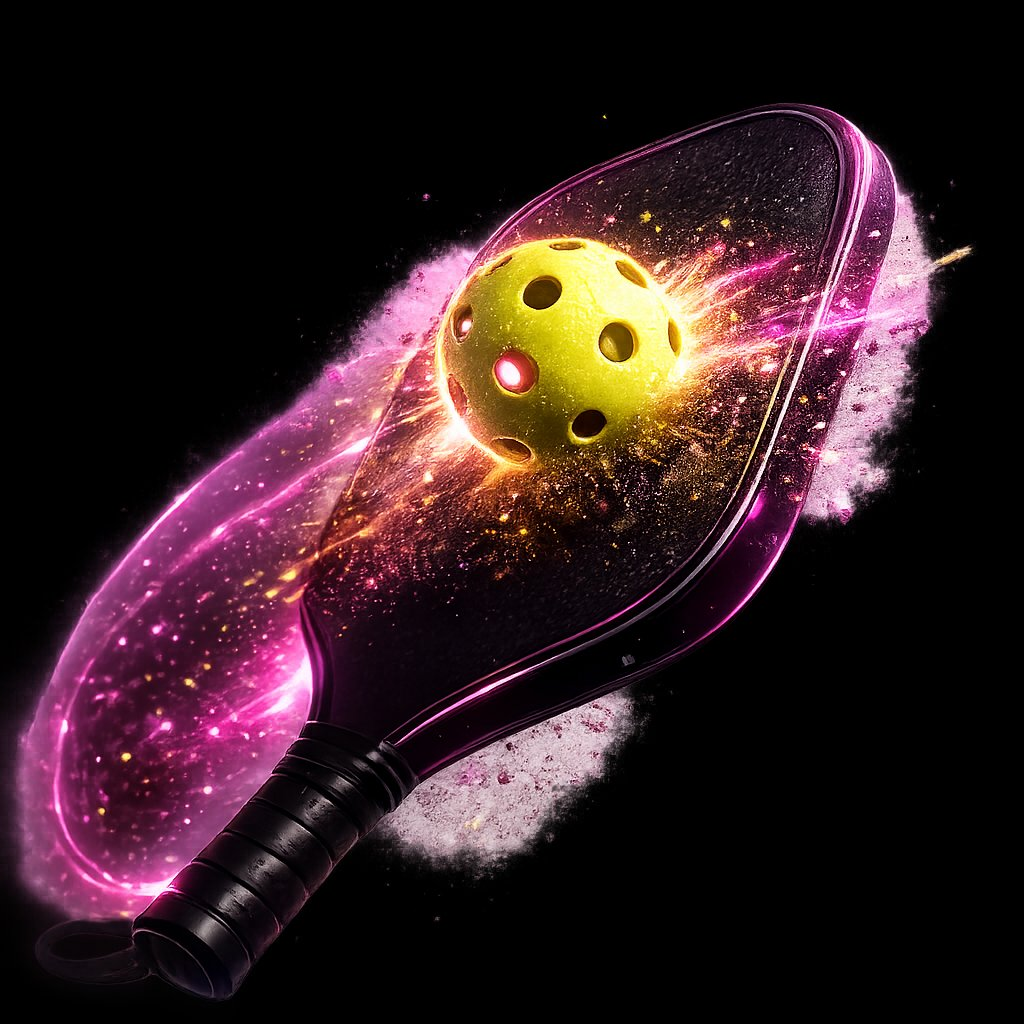
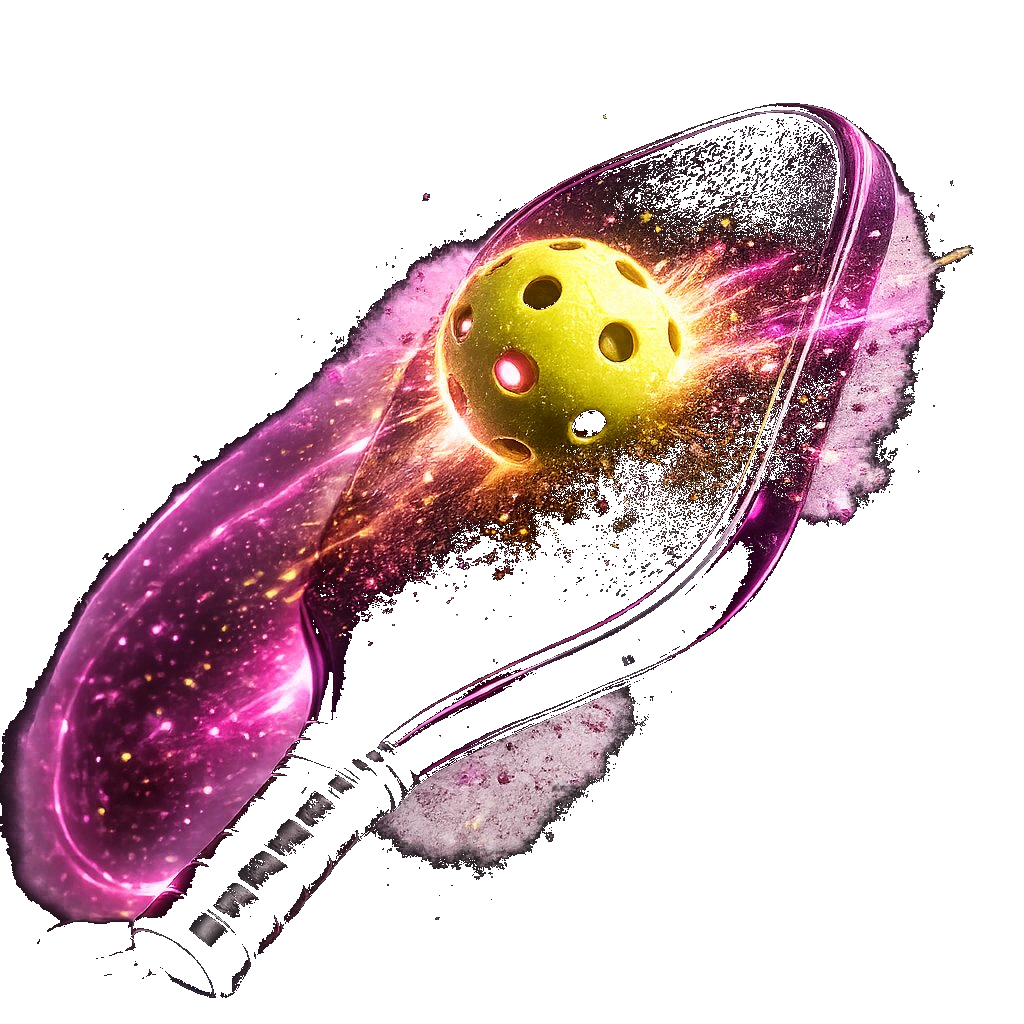
Screen 01: transparent backgrounds on sport images, enlarge to 80px, fix card overflow

diff --git a/index.html b/index.html
@@ -188,7 +188,7 @@ body{background:var(--bg);color:var(--white);font-family:'Plus Jakarta Sans',san
 /* sport branch grid */
 .branch-section{width:100%;margin-top:20px;padding:0 8px;}
 .branch-grid{display:grid;grid-template-columns:1fr 1fr;gap:10px;}
-.branch-card{border-radius:14px;padding:16px 10px 14px;display:flex;flex-direction:column;align-items:center;justify-content:center;gap:8px;position:relative;overflow:hidden;transition:all 0.25s ease;cursor:pointer;text-align:center;aspect-ratio:1/0.95;}
+.branch-card{border-radius:14px;padding:18px 10px 16px;display:flex;flex-direction:column;align-items:center;justify-content:center;gap:6px;position:relative;overflow:hidden;transition:all 0.25s ease;cursor:pointer;text-align:center;}
 .branch-card.active{background:rgba(184,242,106,0.06);border:1.5px solid rgba(184,242,106,0.4);box-shadow:0 0 24px rgba(184,242,106,0.12),0 0 48px rgba(184,242,106,0.04),inset 0 0 20px rgba(184,242,106,0.03);}
 .branch-card.coming{background:rgba(255,255,255,0.02);border:1.5px solid rgba(184,242,106,0.2);box-shadow:0 0 16px rgba(184,242,106,0.06),0 0 32px rgba(184,242,106,0.02);}
 .branch-card.active:hover{background:rgba(184,242,106,0.1);border-color:rgba(184,242,106,0.55);box-shadow:0 0 30px rgba(184,242,106,0.18),0 0 60px rgba(184,242,106,0.06);}
@@ -353,25 +353,25 @@ const screens = [
         <div class="branch-grid">
 
           <div class="branch-card active" onclick="show(1)">
-            <div class="branch-icon" style="font-size:0;"><img src="sport-golf.png" style="width:64px;height:64px;object-fit:contain;border-radius:8px;" /></div>
+            <div class="branch-icon" style="font-size:0;"><img src="sport-golf.png" style="width:80px;height:80px;object-fit:contain;" /></div>
             <div class="branch-name">OPEN <span>GOLF</span></div>
             <div class="branch-tag">Play Now</div>
           </div>
 
           <div class="branch-card coming" style="border-color:rgba(91,156,232,0.3);box-shadow:0 0 16px rgba(91,156,232,0.08),0 0 32px rgba(91,156,232,0.03);">
-            <div class="branch-icon" style="font-size:0;"><img src="sport-padel.png" style="width:64px;height:64px;object-fit:contain;border-radius:8px;" /></div>
+            <div class="branch-icon" style="font-size:0;"><img src="sport-padel.png" style="width:80px;height:80px;object-fit:contain;" /></div>
             <div class="branch-name" style="color:#aaa;">OPEN <span style="color:#5b9ce8;">PADEL</span></div>
             <div class="branch-tag">Coming Soon</div>
           </div>
 
           <div class="branch-card coming" style="border-color:rgba(232,212,77,0.3);box-shadow:0 0 16px rgba(232,212,77,0.08),0 0 32px rgba(232,212,77,0.03);">
-            <div class="branch-icon" style="font-size:0;"><img src="sport-tennis.png" style="width:64px;height:64px;object-fit:contain;border-radius:8px;" /></div>
+            <div class="branch-icon" style="font-size:0;"><img src="sport-tennis.png" style="width:80px;height:80px;object-fit:contain;" /></div>
             <div class="branch-name" style="color:#aaa;">OPEN <span style="color:#e8d44d;">TENNIS</span></div>
             <div class="branch-tag">Coming Soon</div>
           </div>
 
           <div class="branch-card coming" style="border-color:rgba(168,124,232,0.3);box-shadow:0 0 16px rgba(168,124,232,0.08),0 0 32px rgba(168,124,232,0.03);">
-            <div class="branch-icon" style="font-size:0;"><img src="sport-pickleball.png" style="width:64px;height:64px;object-fit:contain;border-radius:8px;" /></div>
+            <div class="branch-icon" style="font-size:0;"><img src="sport-pickleball.png" style="width:80px;height:80px;object-fit:contain;" /></div>
             <div class="branch-name" style="font-size:9px;color:#aaa;">OPEN <span style="color:#a87ce8;">PICKLEBALL</span></div>
             <div class="branch-tag">Coming Soon</div>
           </div>
